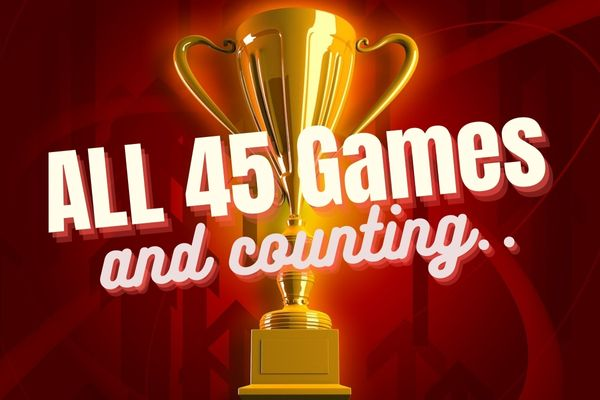
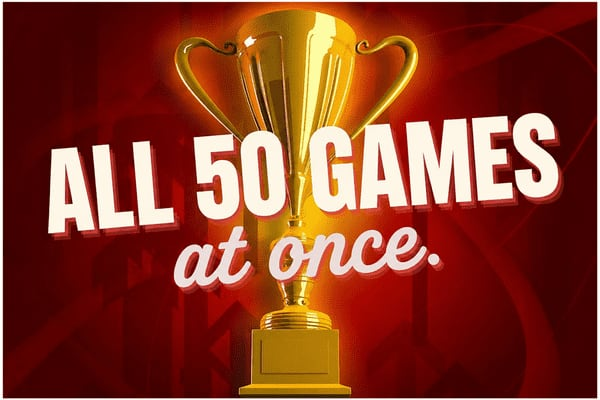
Install the "ALL 50 GAMES" Gold Club artwork; drop the retired p51 tile
Artwork: converts the uploaded "Gold 50 image.png" (600x402 PNG) to the canonical
600x400 JPEG at s240281505130794070_p112_i8_w600.jpeg, which is the single file
all 11 pages showing the Gold Club tile reference -- so the new art appears
everywhere at once with no HTML changes. 38 KB, in line with the 39 KB it
replaces. Removes the now-redundant PNG upload; it was unreferenced, and its name
contained spaces.

p51 tile: removes the retired product's tile from the c6 category listing, where
it was still advertising CA$19.99 -- the last CAD price on a live selling surface.

Worth recording, since the request was based on a different assumption: p51 is
"Fat Bottom Trivia 3.1 Love & Lust", a Valentine's trivia game show, NOT One Hit
Wonders 2. It already redirects to p135 (Valentine's Day Trivia 2-Pack). One Hit
Wonders 2 is p125, and it already redirects to p128 (One Hit Wonders 2-Pack). So
both retired singles were already forwarding to their matching packs, and nothing
was repointed -- sending Valentine's trivia to a One Hit Wonders bingo pack would
have been wrong. Only the stale tile needed removing.

Verified: div tags balanced (169/169), c6 renders 10 tiles in rows [4,4,2] with no
CA$ text and no overflow, check-links.js clean at 577 pages / 0 broken.

Claude-Session: https://claude.ai/code/session_01EwX8NffS8cgT5679hoP84f

Changed region(s): [[0.0, 0.0, 1.0, 1.0], [0.33, 0.24, 0.36, 0.3], [0.3, 0.18, 0.33, 0.24]]

diff --git a/store/c6/triviagameshows/index.html b/store/c6/triviagameshows/index.html
@@ -507,39 +507,6 @@
 					</div>
 				</div>
 			</div>		</div>
-		<div class="wsite-com-category-product wsite-com-column " data-id="51">
-			
-			<div class="wsite-com-category-product-wrap ">
-			
-				<a href="/store/p51/fatbottomtrivia31.html" class="wsite-com-link wsite-com-category-product-link ">
-			
-					<div style="position:relative">
-						<div class="wsite-com-category-product-image-container wsite-imageaspectratio-image-container">
-	<div class="wsite-com-category-product-image-height wsite-imageaspectratio-image-height">
-	</div>
-	<div class="wsite-com-category-product-image-wrap wsite-imageaspectratio-image-wrap">
-		<img class="wsite-com-category-product-image wsite-imageaspectratio-image" src="/uploads/4/3/3/6/43362499/s240281505130794070_p51_i9_w640.jpeg" style="width:110%;top:0%;left:-5%" loading="lazy" decoding="async">
-	</div>
-</div>
-
-						<div class="wsite-com-category-product-cover ">
-						</div>
-					</div>
-			
-					<div class="wsite-com-category-product-name wsite-com-link-text">
-						FBT 3.1 Valentine's Day Special
-					</div>
-				</a>
-			
-				<div class="wsite-com-product-price ">
-					<div class="wsite-com-price wsite-com-category-product-price ">
-						CA$19.99
-					</div>
-					<div class="wsite-com-sale-price wsite-com-category-product-price ">
-						CA$19.99
-					</div>
-				</div>
-			</div>		</div>
 		<div class="wsite-com-category-product wsite-com-column " data-id="9">
 			
 			<div class="wsite-com-category-product-wrap ">
